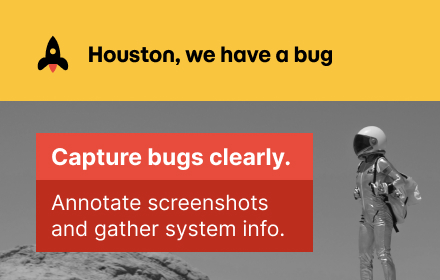
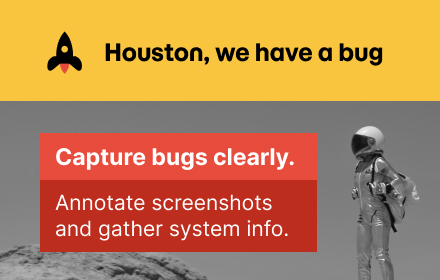
Update tile image and readme

diff --git a/README.md b/README.md
@@ -13,7 +13,7 @@
 ![Build](https://img.shields.io/badge/build-esbuild-lightgrey)
 
 <img
-  src="src/images/extension-presentation/hb-small-promo-tile-440x280@2x.jpg?v=3"
+  src="src/images/extension-presentation/hb-small-promo-tile-440x280@2x.jpg?v=4"
   width="440"
   alt="Houston, we have a bug"
 />
